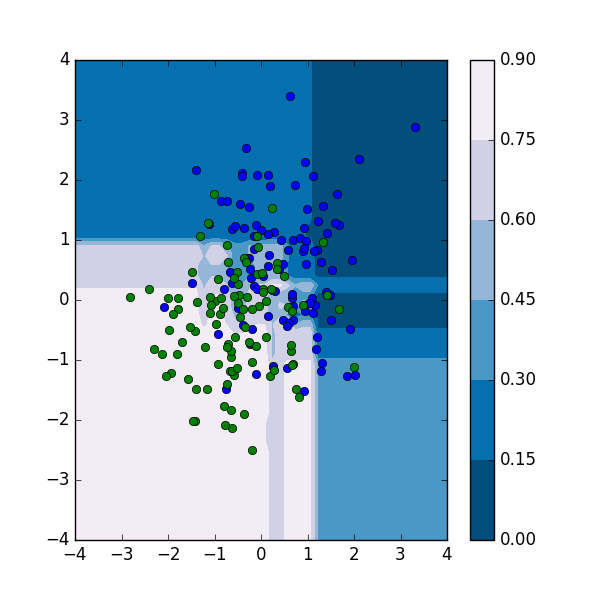
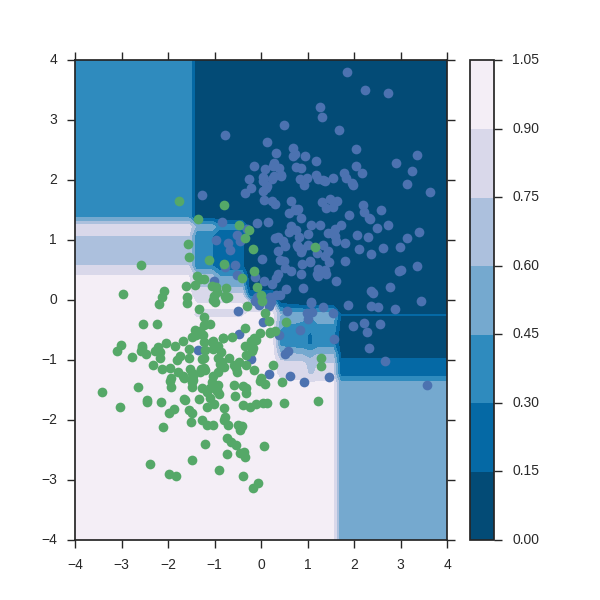
Make gbdtree module and sum up sample code in sample.py

diff --git a/sample.py b/sample.py
@@ -1,6 +1,11 @@
+"""シンプルな人工データに対する回帰問題（普通の回帰と二値分類）
+"""
 import gbdtree as gb
-import functions as fn
+
 import matplotlib.pyplot as plt
+from matplotlib import colors, ticker, cm
+from sklearn.metrics import accuracy_score
+from sklearn.cross_validation import train_test_split
 import numpy as np
 import seaborn as sns
 
@@ -11,7 +16,7 @@ def regression_sample():
     true_func = np.sin
     np.random.seed(71)
 
-    x = np.random.normal(scale=1.0,loc=0.0,size=sample_size)
+    x = np.linspace(-2,2,sample_size)
     t = true_func(x) + np.random.normal(scale=.2,size=sample_size)
     x = x.reshape(sample_size,1)
 
@@ -20,8 +25,8 @@ def regression_sample():
         # 目的関数：二乗ロス（LeastSquare)
         # 活性化関数：恒等写像（f(x)=x)
     # 今の当てはまりがどの程度なのか評価するロス関数に二乗ロス関数を与える
-    clf = gb.GradientBoostedDT(regobj=fn.LeastSquare(),loss=fn.leastsquare)
-    clf.fit(x=x,t=t,num_iter=20,gamma=.5)
+    clf = gb.GradientBoostedDT(regobj=gb.LeastSquare(),loss=gb.leastsquare)
+    clf.fit(x=x,t=t,max_depth=8,num_iter=20,gamma=.5)
 
     # plot result of predict accuracy
     xx = np.linspace(-2,2,100).reshape(100,1)
@@ -35,7 +40,56 @@ def regression_sample():
     plt.savefig('experiment_figures/regression.png')
     plt.show()
 
+def binary_classification_sample():
+    """入力次元数二次元のサンプル問題
+    """
+    np.random.seed = 71
+    x = (
+    np.random.normal(loc=1.,scale=1.,size=400).reshape(200,2),
+    np.random.normal(loc=-1.,scale=1.,size=400).reshape(200,2),
+    )
+    t = np.zeros_like(x[0]),np.ones_like(x[1])
+    x = np.append(x[0],x[1],axis=0)
+    t = np.append(t[0],t[1],axis=0)[:,0]
+
+    x_train,x_test,t_train,t_test = train_test_split(x,t,test_size=.3,random_state=71)
+
+    # 二値分類問題なので目的関数を交差エントロピー、活性化関数をシグモイドに設定
+    regobj = gb.Entropy()
+
+    # ロス関数はロジスティクスロス
+    loss = gb.logistic_loss
+
+    clf = gb.GradientBoostedDT(regobj,loss,test_data=(x_test,t_test))
+    clf.fit(x=x_train,t=t_train,max_depth=4,gamma=.1,lam=1e-2,eta=.1,num_iter=40)
+
+    plt.title('seqence of training loss')
+    plt.plot(clf.loss_log,'o-',label='training loss')
+    plt.plot(clf.pred_log,'o-',label='test loss')
+    plt.legend()
+    plt.show()
+
+    plt.figure(figsize=(6,6))
+
+    xx = np.linspace(start=-4,stop=4,num=50)
+    yy = np.linspace(start=-4,stop=4,num=50)
+    X,Y = np.meshgrid(xx,yy)
+    Z = [clf.predict(np.array([a,b]).reshape(1,2))[0] for a in xx for b in yy]
+    Z = np.array(Z).reshape(len(xx),len(yy))
+    plt.contourf(X,Y,Z,6,cmap=cm.PuBu_r)
+    cbar = plt.colorbar()
+    plt.plot(x[:200,0],x[:200,1],"o")
+    plt.plot(x[200:,0],x[200:,1],"o")
+    plt.savefig('experiment_figures/binary_classification.png',dpi=100)
+
+    pred_prob = clf.predict(x_test)
+    pred_t = np.where(pred_prob >= .5,1,0)
+    acc = np.where(pred_t == t_test,1,0).sum() / len(t_test)
+    acc_str = 'test accuracy:{0}'.format(acc)
+    print(acc_str)
+
 if __name__ == '__main__':
     sns.set_context('notebook')
     sns.set_style('ticks')
     regression_sample()
+    binary_classification_sample()

diff --git a/gbdtree/gbdtree.py b/gbdtree/gbdtree.py
@@ -1,9 +1,8 @@
 import numpy as np
 import matplotlib.pyplot as plt
-from matplotlib import colors, ticker, cm
 
-from functions import *
-from logging import getLogger,StreamHandler,FileHandler,Formatter,DEBUG
+from .functions import *
+from logging import getLogger,StreamHandler,FileHandler,Formatter
 
 class Node(object):
 
@@ -11,8 +10,8 @@ class Node(object):
     sh = StreamHandler()
     fmter = Formatter('{asctime}\t{name}\t{message}',style='{')
     sh.setFormatter(fmter)
-    sh.setLevel(DEBUG)
-    logger.setLevel(DEBUG)
+    sh.setLevel('DEBUG')
+    logger.setLevel('DEBUG')
     logger.addHandler(sh)
 
     def __init__(self,x,t,grad,hess,lam=1e-4,obj_function=Entropy()):
@@ -175,7 +174,7 @@ class GradientBoostedDT(object):
     fmter = Formatter('{asctime}\t{name}\t{message}',style='{')
     sh.setFormatter(fmter)
     sh.setLevel('INFO')
-    logger.setLevel(DEBUG)
+    logger.setLevel('DEBUG')
     logger.addHandler(sh)
 
     def __init__(self,regobj=Entropy(),loss=logistic_loss,test_data=None):
@@ -251,42 +250,8 @@ class GradientBoostedDT(object):
         pred = self.activate(a)
         return pred
 
+class GradientBoostedClassifer(GradientBoostedDT):
 
-if __name__ == '__main__':
-    np.random.seed = 71
-    x = (
-    np.random.normal(loc=.5,scale=1.,size=200).reshape(100,2),
-    np.random.normal(loc=-.5,scale=1.,size=200).reshape(100,2),
-    )
-    t = np.zeros_like(x[0]),np.ones_like(x[1])
-    x = np.append(x[0],x[1],axis=0)
-    t = np.append(t[0],t[1],axis=0)[:,0]
-
-    # 二値分類問題なので目的関数を交差エントロピー、活性化関数をシグモイドに設定
-    regobj = Entropy()
-
-    # ロス関数はロジスティクスロス
-    loss = logistic_loss
-
-    crf = GradientBoostedDT(regobj,loss)
-    crf.fit(x=x,t=t)
-
-    plt.title('seqence of training loss')
-    plt.plot(crf.loss_log,'o-',label='training loss')
-    plt.legend()
-    plt.show()
-
-    plt.figure(figsize=(6,6))
-
-    xx = np.linspace(start=-4,stop=4,num=50)
-    yy = np.linspace(start=-4,stop=4,num=50)
-    X,Y = np.meshgrid(xx,yy)
-    Z = [crf.predict(np.array([a,b]).reshape(1,2))[0] for a in xx for b in yy]
-    Z = np.array(Z).reshape(len(xx),len(yy))
-    plt.contourf(X,Y,Z,6,cmap=cm.PuBu_r)
-    cbar = plt.colorbar()
-
-    plt.plot(x[:100,0],x[:100,1],"o")
-    plt.plot(x[100:,0],x[100:,1],"o")
-
-    plt.savefig('experiment_figures/binary_classification.png',dpi=100)
+    def __init__(self,regobj=Entropy(),loss=logistic_loss,test_data=None):
+        super(GradientBoostedClassifer,self).__init__(
+            regobj=Entropy(),loss=logistic_loss,test_data=None)

diff --git a/gbdtree/functions.py b/gbdtree/functions.py
@@ -9,7 +9,6 @@ def logistic_loss(y,t):
     return loss
 
 def leastsquare(y,t):
-    print(y.shape,t.shape)
     loss = np.linalg.norm(y - t)
     return loss
 
@@ -19,7 +18,6 @@ class ObjFunction(object):
 
     def __call__(self,y,t):
         pass
-
 
 class Entropy(ObjFunction):
     """
@@ -44,5 +42,4 @@ class LeastSquare(ObjFunction):
         pred = self.activate(y)
         grad = 2. * (y-t)
         hess = 2. * np.ones_like(y)
-        print(grad)
         return grad,hess

diff --git a/gbdtree/__init__.py b/gbdtree/__init__.py
@@ -1,0 +1,7 @@
+"""gbdtree: Gradient Boosted Decision Tree Model
+"""
+
+from .gbdtree import GradientBoostedDT
+from .functions import sigmoid,logistic_loss,Entropy,LeastSquare,leastsquare
+
+__all__ = ['GradientBoostedDT','sigmoid','logistic_loss','Entropy','LeastSquare','leastsquare']

diff --git a/main.py b/main.py
@@ -46,6 +46,7 @@ if __name__ == '__main__':
     plt.title('seqence of training loss')
     plt.plot(clf.loss_log,'o-',label='training loss')
     plt.plot(clf.pred_log,'o-',label='test loss')
+    plt.yscale('log')
     plt.legend()
     plt.show()
 
